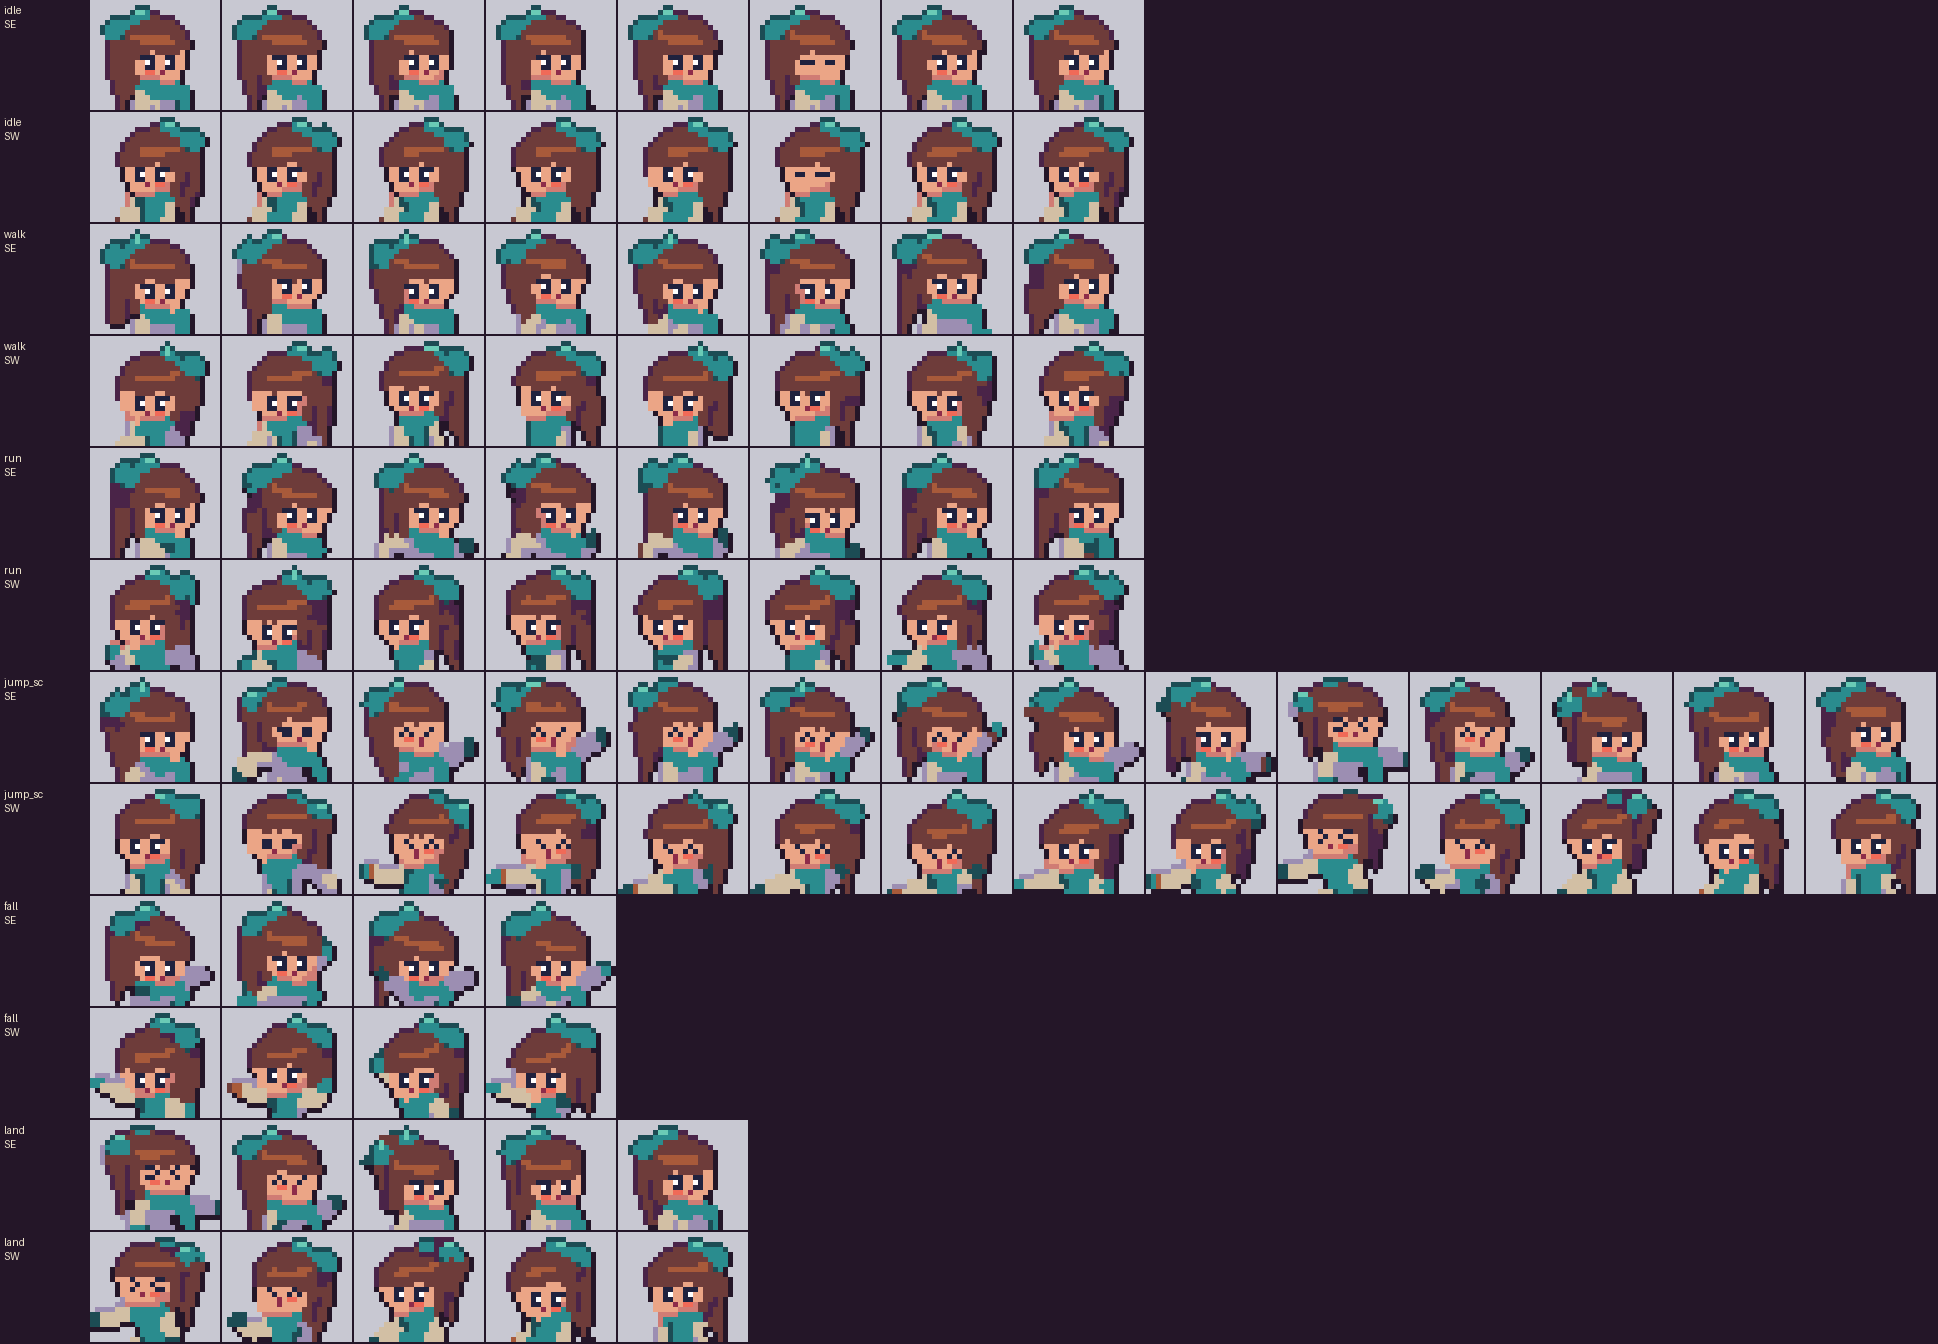
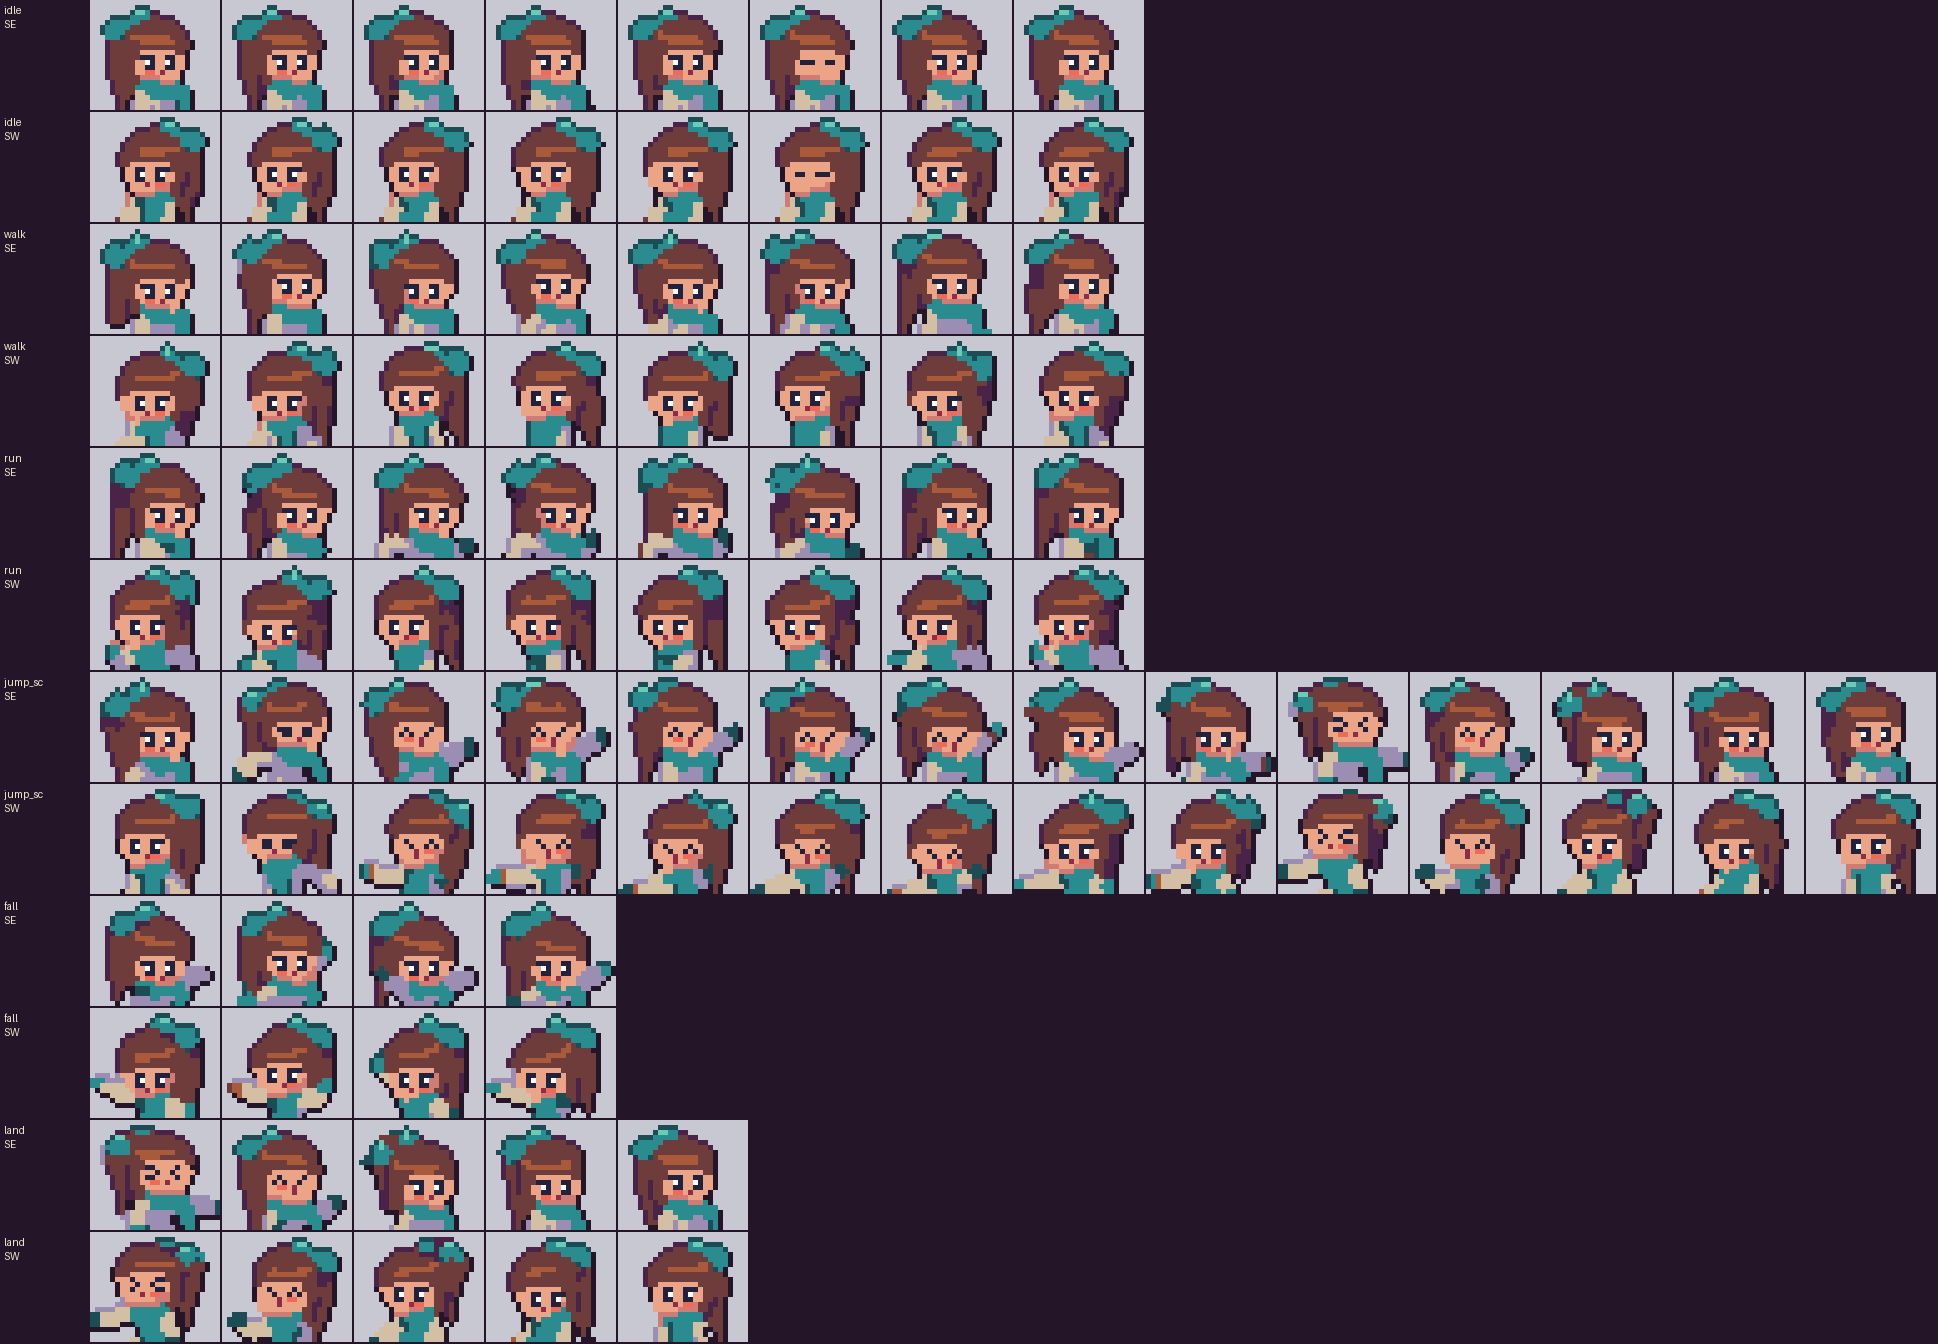
r15 round 2: bang hem pinned to lash line, temple slope, lone-hair cut, arch/pocket fixes

Changed region(s): [[0.1238, 0.5938, 0.1548, 0.625]]

diff --git a/pipeline/face.py b/pipeline/face.py
@@ -391,6 +391,95 @@ def apply_face_cels(idx, palette, head_world, face, cels, expression, pivot, cam
     return out, view
 
 
+def _face_hem(out, L, eye_x0, eye_x1, palette, view, far_side, stamped):
+    """r15 round 2 (HD opt-in, render.face_eyes.hem_pin): the bang hem is drawn relative to the eye line so it can't
+    strobe with the head bob. L = the cel's lash row (blink: the open-eye lash row, so a blink never moves the hem). Per face column: rows <= L-2 are hair wherever hair sits within 4 rows above, row L-1 is skin
+    (exactly 1 skin row over the lashes / closed-eye arches). Slope: the outermost front column on each side
+    hangs to the lash row L; in 3/4 the 2 far-temple columns and the outermost near column hang to L-1.
+    Then (AD r15-1) lone hair pixels inside the face with >= 3 skin/eye 4-neighbours become skin."""
+    H, W = out.shape
+    skin_ids = [palette.index[n] for n in palette.ramps["skin"]]
+    hair_ids = [palette.index[n] for n in palette.ramps.get("hair", [])]
+    ink = [palette.special[k] for k in ("eye", "catchlight", "blush", "mouth") if k in palette.special]
+    skin_c = skin_ids[min(1, len(skin_ids) - 1)]
+    hair_c = palette.index[palette.ramps["hair"][1]] if len(palette.ramps.get("hair", [])) > 1 else hair_ids[0]
+    face = set(skin_ids) | set(ink)
+    if not (2 <= L < H - 2):
+        return
+    # face span: contiguous columns of skin/face ink on the row under the lash line, through the eyes
+    row = L + 1
+    cx = (eye_x0 + eye_x1) // 2
+    if not (0 <= cx < W) or out[row, cx] not in face:
+        return
+    x0 = x1 = cx
+    while x0 - 1 >= 0 and out[row, x0 - 1] in face:
+        x0 -= 1
+    while x1 + 1 < W and out[row, x1 + 1] in face:
+        x1 += 1
+    changed = []
+
+    def put(y, x, c):
+        if out[y, x] != c:
+            out[y, x] = c
+            changed.append((y, x))
+    for x in range(x0, x1 + 1):
+        # lowest hair pixel above the gap row (skin in between is the forehead strip to fill)
+        hy, y = None, L - 1
+        while y >= max(0, L - 5):
+            v = out[y, x]
+            if v in hair_ids:
+                hy = y
+                break
+            if v not in face:
+                break
+            y -= 1
+        if hy is None:
+            continue
+        outer = min(x - x0, x1 - x)                 # 0 = outermost face column on its side
+        bottom = L - 2
+        if view == "front" and outer == 0 and out[L, x] in skin_ids:
+            bottom = L
+        elif view == "three_quarter":
+            far_col = (x1 - x) if far_side > 0 else (x - x0)
+            if far_col <= 1 or outer == 0:
+                bottom = L - 1
+        for yy in range(hy + 1, bottom + 1):
+            if out[yy, x] in skin_ids:
+                put(yy, x, hair_c)
+        for yy in range(bottom + 1, L):
+            if out[yy, x] in hair_ids:
+                put(yy, x, skin_c)
+    # lone hair pixels inside the face (bridge bang tips): >= 3 of 4 neighbours are skin / face ink
+    for y in range(max(1, L - 4), min(H - 1, L + 6)):
+        for x in range(max(1, x0), min(W - 1, x1 + 1)):
+            if out[y, x] in hair_ids:
+                n = sum(out[y + a, x + b] in face for a, b in ((1, 0), (-1, 0), (0, 1), (0, -1)))
+                if n >= 3:
+                    put(y, x, skin_c)
+    stamped.update(changed)
+
+
+def _skin_pockets(out, stamped, palette):
+    """r15 round 2 (profile, AD r15-5): a skin pixel above the eye boxed in by hair (>= 3 hair 4-neighbours) is
+    hair - no 1-px skin pocket between the bangs and the profile eye."""
+    eyes = [(y, x) for (y, x) in stamped if out[y, x] in (palette.special["eye"], palette.special.get("catchlight"))]
+    if not eyes:
+        return
+    skin_ids = [palette.index[n] for n in palette.ramps["skin"]]
+    hair_ids = [palette.index[n] for n in palette.ramps.get("hair", [])]
+    hair_c = palette.index[palette.ramps["hair"][1]]
+    L = min(y for y, _ in eyes)
+    xa, xb = min(x for _, x in eyes) - 3, max(x for _, x in eyes) + 3
+    H, W = out.shape
+    for y in range(max(1, L - 4), L):
+        for x in range(max(1, xa), min(W - 1, xb + 1)):
+            if out[y, x] in skin_ids:
+                n = sum(out[y + a, x + b] in hair_ids for a, b in ((1, 0), (-1, 0), (0, 1), (0, -1)))
+                if n >= 3:
+                    out[y, x] = hair_c
+                    stamped.add((y, x))
+
+
 def apply_face_eyes(idx, palette, head_world, face, cels, expression, pivot, cam, spec, material=None):
     """Opt-in per-eye face cels (render.face_eyes, HD model): the view's cel is split into its eye blocks (columns
     holding E/C, with the blush under them) and the mouth; each eye block is placed at its OWN projected eye marker
@@ -400,7 +489,10 @@ def apply_face_eyes(idx, palette, head_world, face, cels, expression, pivot, cam
     view, right = face_view(head_world, cam)
     loh = bool(spec.get("lash_over_hair"))
     if view in ("back", "profile"):
-        return apply_face_cels(idx, palette, head_world, face, cels, expression, pivot, cam, lash_over_hair=loh)
+        r = apply_face_cels(idx, palette, head_world, face, cels, expression, pivot, cam, lash_over_hair=loh)
+        if view == "profile" and spec.get("hem_pin"):
+            _skin_pockets(r[0], apply_face_cels.last_stamped, palette)
+        return r
     vs = cels["views"].get(view, {})
     cel = vs.get(expression)
     if cel is None and expression == "blink" and vs.get("neutral"):
@@ -505,5 +597,12 @@ def apply_face_eyes(idx, palette, head_world, face, cels, expression, pivot, cam
                     j == lj and ch in "EC" and _lash_over_hair(idx, x, y, hair_ids, skin_ids))):
                 out[y, x] = colors[ch]
                 stamped.add((y, x))
+    if spec.get("hem_pin"):
+        # the expression's own lash line (determined: lowered lid -> the bangs meet it, AD r15-3); blink keeps the
+        # open-eye line so a 1-frame blink never moves the hem
+        nl = _lash_row(vs["neutral"]["rows"]) if (expression == "blink" and vs.get("neutral")) else _lash_row(rows)
+        far_side = 1 if far == 1 else -1                 # far eye on screen-right (+1) or screen-left (-1)
+        _face_hem(out, y0 + (nl if nl is not None else 0), starts[0], starts[1] + len(blocks[1]) - 1, palette, view,
+                  far_side, stamped)
     apply_face_cels.last_stamped = stamped
     return out, view

diff --git a/pipeline/tools/make_s4_hd.py b/pipeline/tools/make_s4_hd.py
@@ -50,6 +50,9 @@ SIDELOCK_BACK_Z = 0.4
 SIDELOCK_DZ = -1.6     # both side-lock clumps moved back along -z (near-side face width in 3/4)
 FACE_CELS = "kawaii_hd"      # None = inherit kawaii_v2; "kawaii_hd" = r15 3/4 far eye (same height as the near eye)
 CONTOUR_FAR = 2       # far-eye cheek px in 3/4 (None = same as contour)
+# round 2 (AD r15-1..5, anim): bang hem pinned to the eye line - exactly 1 skin row over the lashes in S/SE/SW, outer
+# columns hang lower (slope), lone face hair pixels cut, profile skin pockets filled (pipeline/face.py _face_hem)
+HEM_PIN = True
 LASH_OVER_HAIR = True  # a bang tip dipping onto the lash line (head bob / pitch) is trimmed there, never the lash
 MOUTH_BIAS = 3         # 3/4 mouth pull toward the nose bridge (px)
 # hair_cap front clip plane [nx, ny, nz, d] (unit-cap coords, keep where n.p >= d); None = legacy [0, 0, -1, -0.22].
@@ -485,7 +488,8 @@ def main():
                    "face_eyes": {"markers": marks[:2], "mouth": marks[2], "gap": 2, "contour": 1,
                                  "gap_front": 3, "mouth_bias": MOUTH_BIAS,   # round 3: AD4 locked S bridge, AD5 mouth
                                  **({"contour_far": CONTOUR_FAR} if CONTOUR_FAR is not None else {}),
-                                 **({"lash_over_hair": True} if LASH_OVER_HAIR else {})},
+                                 **({"lash_over_hair": True} if LASH_OVER_HAIR else {}),
+                                 **({"hem_pin": True} if HEM_PIN else {})},
                    **({"face_cels": FACE_CELS} if FACE_CELS else {}),
                    "lineart": {"keep_selout_runs": ["ribbon", "hair"], "skin_edge_dark": True,
                                "ring_trim": {"margin": 2, "min_run": 3, "stop_at": ["ribbon", "hatcuff"],

diff --git a/docs/review/r15_face_bangs.md b/docs/review/r15_face_bangs.md
@@ -1,20 +1,11 @@
-# r15 - SE far eye and longer bangs (face team + AD)
+# r15 - SE far eye and longer bangs
 
 ## 1. SE far eye
-**Cause:** at 45 degrees the far-eye marker lands on the cheek contour, so the spacing rule shoved both eyes toward the near hair. The far eye ended up a 2x2 block 1 px from the outline.
+**Cause:** at 45 degrees the far-eye marker lands on the cheek contour, so both eyes got shoved toward the near hair.
 
-**Mockups** (pixel edits on v1 frames, `options_x10.png`):
-- A: near side 1 px wider, far eye 2x3
-- B: A plus a far-eye catchlight
-- C: 1x3 far eye
-- D: A plus an outer lash
-- E: 2x3 far eye, no widening
+**Mockups** (`options_x10.png`): A wider near side + 2x3 far eye; B = A + catchlight; C 1x3; D = A + outer lash; E 2x3, no widening.
 
-**AD:**
-- C reads as a slit.
-- E is still jammed against the contour.
-- D makes the far eye heavier than the near eye.
-- A keeps rule 1 (no far catchlight), made for 2x2 eyes, and still looks dead.
+**AD:** C reads as a slit, E is still jammed, D is heavier than the near eye, and A still looks dead.
 - **B wins:** the catchlight sits on the light side like the near eye's, so the gaze stays consistent. No lash wing keeps it "far".
 
 **Implemented:**
@@ -24,16 +15,18 @@
 - Side locks back 1.6 and a tilted hair-cap cut: near cheek +1 px, temple still covered.
 
 ## 2. Bangs
-- Tips lowered: centre 9.5 to 8.6, L1-L3 to 7.9/7.6/7.2. The outer bangs are longest, giving the gentle slope, and the hime notch stays.
+- Tips lowered (centre 9.5 to 8.6, L1-L3 to 7.9/7.6/7.2); the outer bangs are longest and the hime notch stays.
 - New temple bangs reach y 7.2 and blend into the side locks.
-- Tip radius goes from 0.05 to 0.3, so the extra length survives at sprite size.
-- In S the hair ends 1 row above the lashes everywhere (the temples showed 2-3 rows before).
+- Fuller tips (radius 0.05 to 0.3).
 
 **Profile:**
-- The E/W eye cel moves 1 row lower, onto the S/SE eye line (it sat high because of the 16-degree camera).
+- The E/W eye cel moves 1 row lower, onto the S/SE eye line.
 - New `lash_over_hair` rule: if a bang tip lands on the lash row while the head bobs, the lash wins.
 
-**Checks:**
-- Hair now hides 0 eye pixels in idle, walk, run, jump and fall.
-- QA passes on all 18 builds.
-- S4_halfup_bow is byte-identical.
+## Round 2 (AD 1-5, anim)
+New `face_eyes.hem_pin` rule: the hem is drawn from the lash line, with exactly 1 skin row in S/SE/SW.
+- No bob strobe: the run S gap is a steady 1 (it flipped 1/0 in round 1).
+- Slope: the outer S columns reach the lash row; in 3/4 the far-temple columns reach the row above it.
+- Lone face-hair pixels cut (SE/SW: 34 to 0); closed arches keep 1 px of skin above.
+- E/W skin pockets filled.
+- 27/27 builds pass QA; legacy byte-identical.

diff --git a/00_REVIEW/r15_face_bangs/README.md b/00_REVIEW/r15_face_bangs/README.md
@@ -33,10 +33,27 @@ Write-up with the art-director discussion: [docs/review/r15_face_bangs.md](../..
 - **Profile (E/W)**: the eye is 1 row lower, matching the S/SE eye line. This keeps it clear of the longer bangs.
 
 ## Status
-- All 13 clips and the r14 copies of idle, walk, run, jump_sc and throw are rebuilt, and **QA passes**.
+- (round 1) 13 clips + 5 r14 copies rebuilt; see Round 2 below for the current build.
 - Overrides:
   - Three ponytail-tip overrides were re-approved. Their pixels are unchanged.
   - The carry_idle NW temple override was dropped because the temple bangs now produce that edge.
 - Legacy S4_halfup_bow is byte-identical: the idle, walk and throw sheets were compared.
 - `releases/` is untouched.
 - Nothing is committed.
+
+## Round 2 (AD fixes 1-5 + anim fix)
+Rule: `render.face_eyes.hem_pin` (`pipeline/face.py` `_face_hem` / `_skin_pockets`). It works per frame, with no hand edits.
+- **Anim / AD2 (flicker):** the bang hem is now drawn from the lash line, with exactly 1 skin row over the lashes in S/SE/SW, so the head bob no longer opens and closes the gap.
+  - Gap per face column in run S, frames 1-8:
+    - round 1: `1211..` / `1100..` / `1111..` / `0110..` (flips every frame)
+    - round 2: `0011111111100` in every frame
+  - walk, carry_walk and the r14 copies are steady too.
+  - See **[run_flicker_strip.png](run_flicker_strip.png)** and **[run_flicker_S_SE.gif](run_flicker_S_SE.gif)**.
+- **AD1:** lone hair pixels inside the face (3+ skin/eye neighbours) are cut. SE/SW count over walk, run, carry_walk, throw and jump: 34 to 0.
+- **AD2/AD3 slope:** in S the outermost face column on each side hangs to the lash row. In SE/SW the 2 far-temple columns and the outermost near column hang to the row above the lash. The forehead in throw f0-f3 is down to 1 row: determined frames pin to their lowered lid, and blinks keep the open-eye line.
+- **AD4:** closed-eye arches always keep 1 px of skin above them.
+- **AD5:** the 1-px skin pockets above the E/W eye are filled. Run went from 8 to 0, and all clips are now 0.
+- AD conditions kept: the far catchlight stays on the near eye's side and appears only on the 2x3 open eye (determined, squint and joyful have none).
+- **[before_after_round2.png](before_after_round2.png)**: round 1 vs round 2 for S, SE, E, SW and W in idle, run, throw, jump and walk.
+- The other boards and GIFs in this folder have been regenerated from the round 2 build.
+- Rebuilt: 13 base clips and all 14 `*_r14` copies. QA: 27/27 PASS with no warnings. Legacy S4_halfup_bow is byte-identical: idle, walk and throw were compared.
